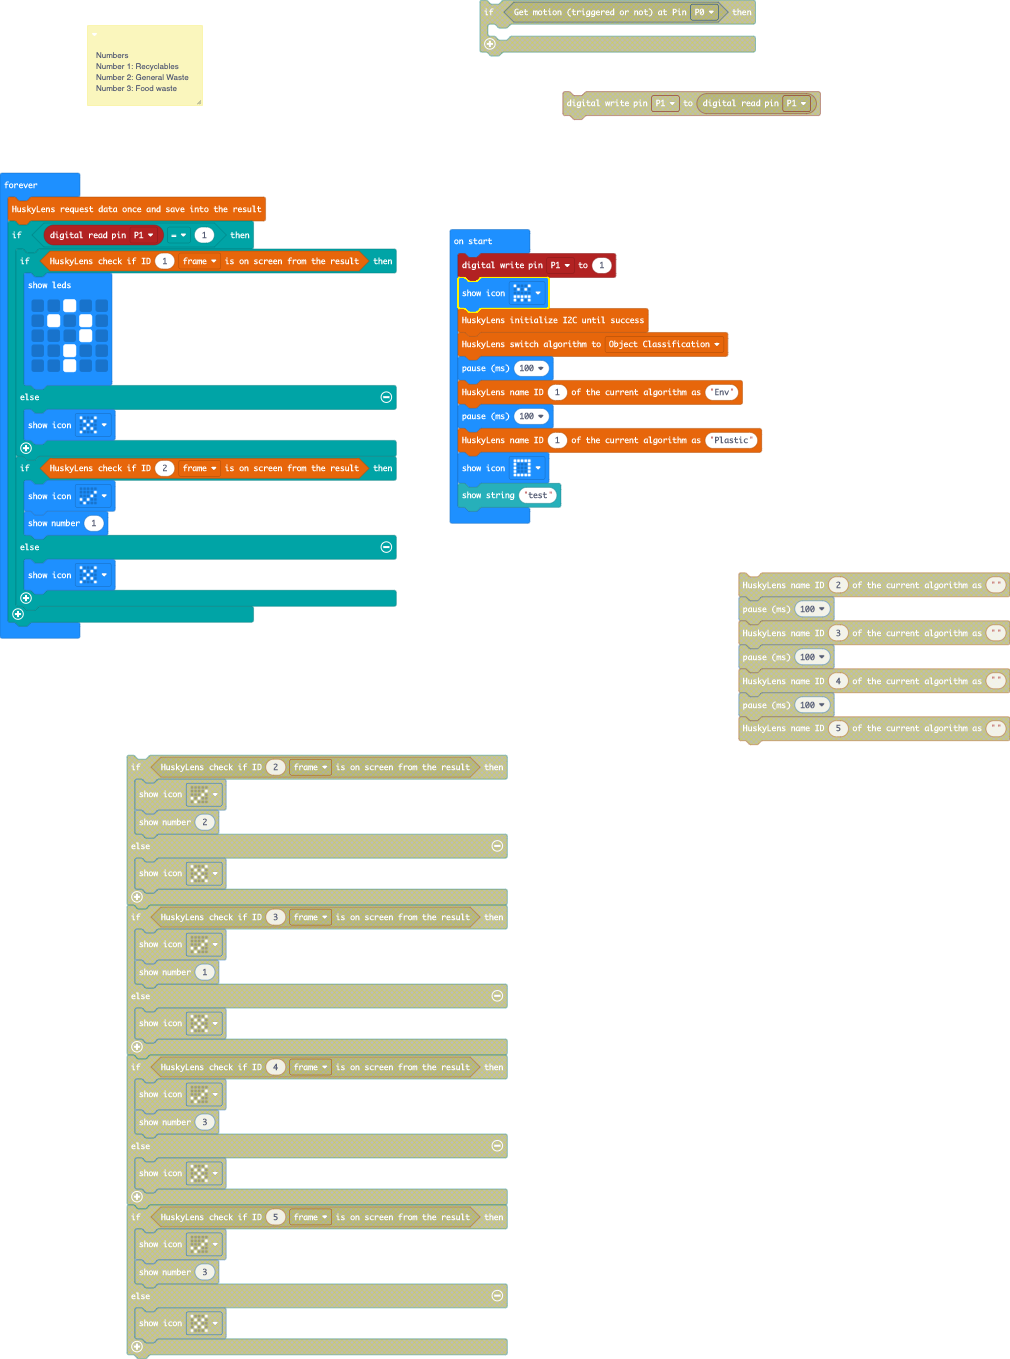
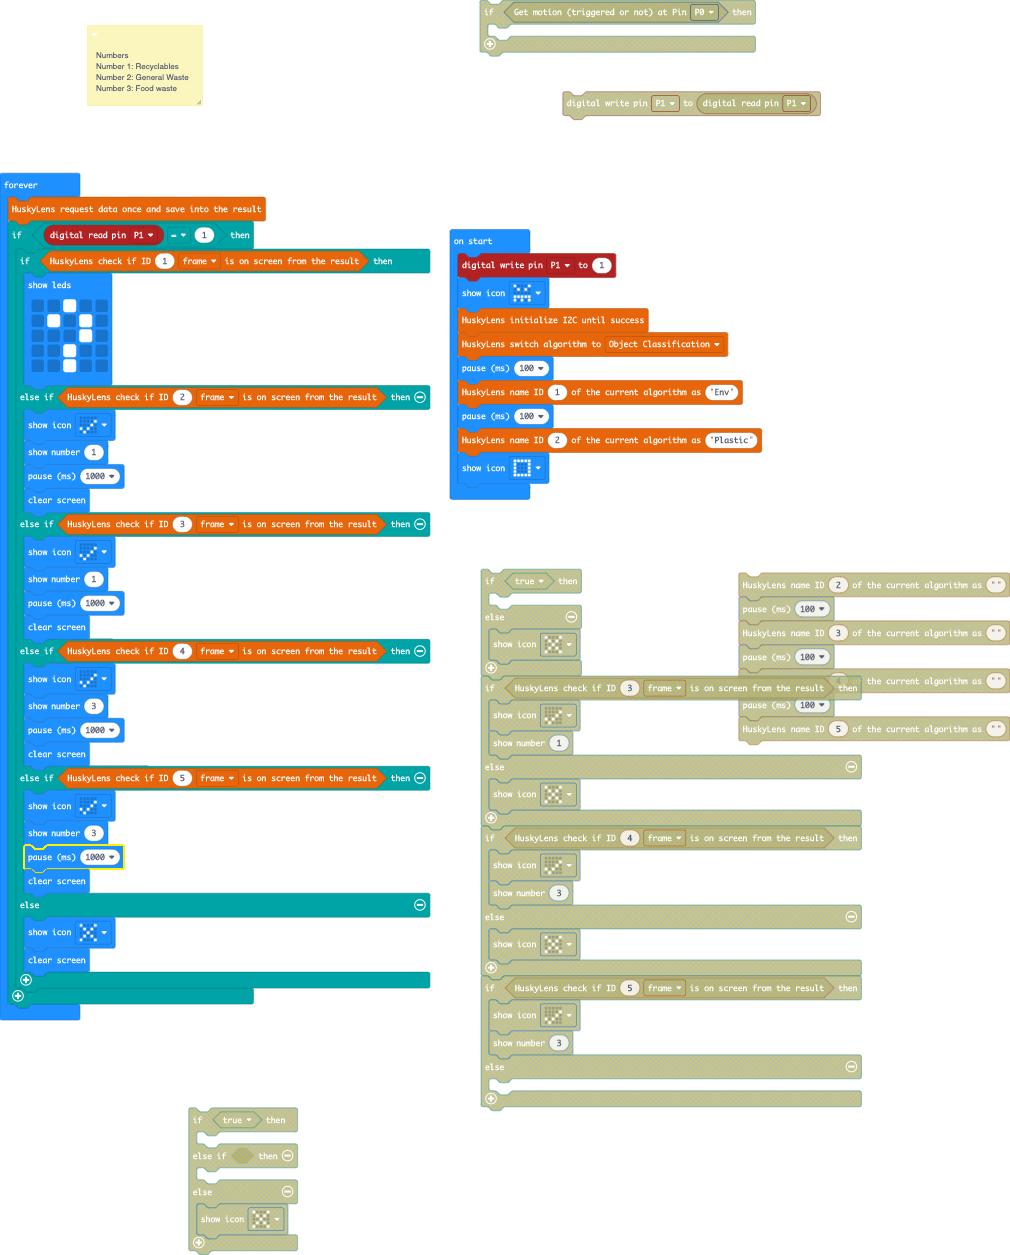
updated things so that the cross doesnt show up ;//

diff --git a/main.ts b/main.ts
@@ -14,9 +14,8 @@ huskylens.initMode(protocolAlgorithm.OBJECTCLASSIFICATION)
 basic.pause(100)
 huskylens.writeName(1, "Env")
 basic.pause(100)
-huskylens.writeName(1, "Plastic")
+huskylens.writeName(2, "Plastic")
 basic.showIcon(IconNames.Square)
-OLED.writeStringNewLine("test")
 basic.forever(function () {
     huskylens.request()
     if (pins.digitalReadPin(DigitalPin.P1) == 1) {
@@ -28,14 +27,29 @@ basic.forever(function () {
                 . . # . .
                 . . # . .
                 `)
-        } else {
-            basic.showIcon(IconNames.No)
-        }
-        if (huskylens.isAppear(2, HUSKYLENSResultType_t.HUSKYLENSResultBlock)) {
+        } else if (huskylens.isAppear(2, HUSKYLENSResultType_t.HUSKYLENSResultBlock)) {
             basic.showIcon(IconNames.Yes)
             basic.showNumber(1)
+            basic.pause(1000)
+            basic.clearScreen()
+        } else if (huskylens.isAppear(3, HUSKYLENSResultType_t.HUSKYLENSResultBlock)) {
+            basic.showIcon(IconNames.Yes)
+            basic.showNumber(1)
+            basic.pause(1000)
+            basic.clearScreen()
+        } else if (huskylens.isAppear(4, HUSKYLENSResultType_t.HUSKYLENSResultBlock)) {
+            basic.showIcon(IconNames.Yes)
+            basic.showNumber(3)
+            basic.pause(1000)
+            basic.clearScreen()
+        } else if (huskylens.isAppear(5, HUSKYLENSResultType_t.HUSKYLENSResultBlock)) {
+            basic.showIcon(IconNames.Yes)
+            basic.showNumber(3)
+            basic.pause(1000)
+            basic.clearScreen()
         } else {
             basic.showIcon(IconNames.No)
+            basic.clearScreen()
         }
     }
 })
